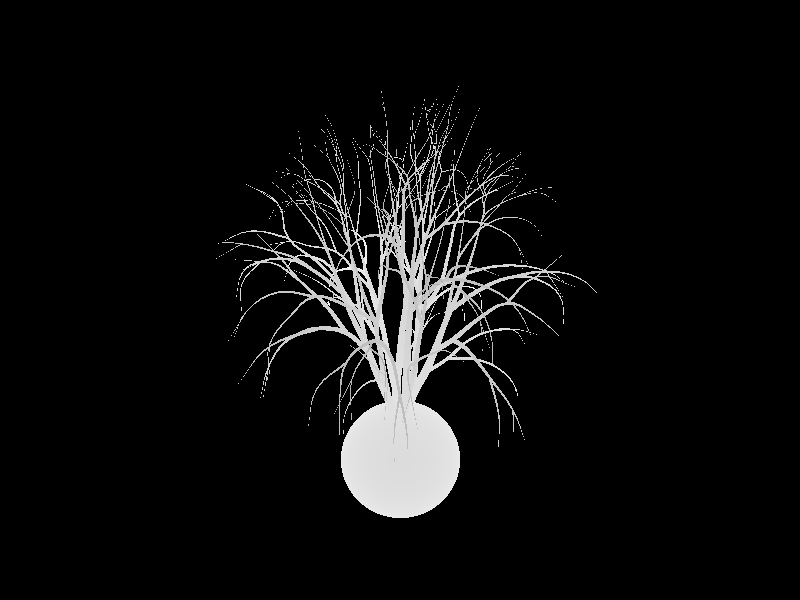
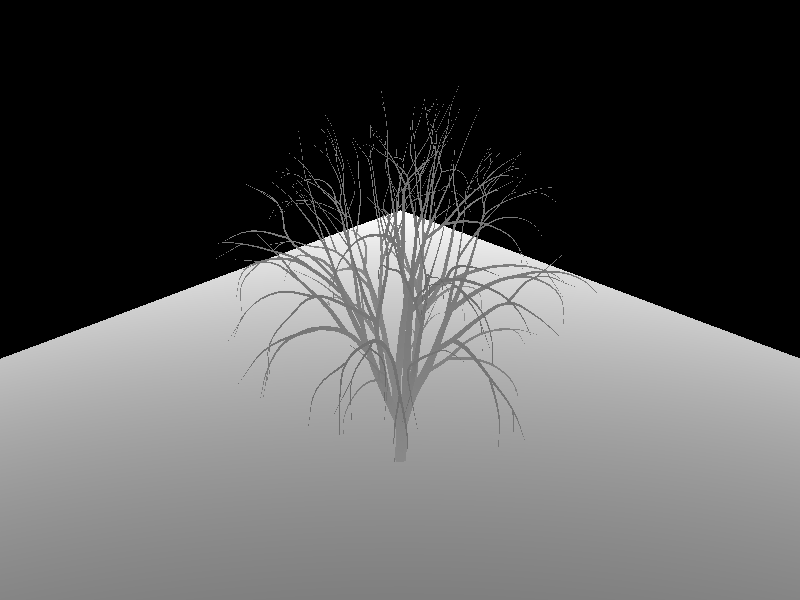
Corrected bug in instance intersection methods

diff --git a/src/instance.rs b/src/instance.rs
@@ -11,8 +11,8 @@ pub struct Instance<'a, T: RealField + Copy> {
     mesh: &'a Mesh<T>,
     /// World-to-object transformation matrix.
     world_to_object: Matrix4<T>,
-    // /// Object-to-world transformation matrix.
-    // object_to_world: Matrix4<T>,
+    /// Object-to-world transformation matrix.
+    object_to_world: Matrix4<T>,
     /// Transformed bounding box in world space.
     world_aabb: Aabb<T>,
 }
@@ -27,7 +27,7 @@ impl<'a, T: RealField + Copy + ToPrimitive> Instance<'a, T> {
         Self {
             mesh,
             world_to_object,
-            // object_to_world,
+            object_to_world,
             world_aabb,
         }
     }
@@ -52,7 +52,7 @@ impl<'a, T: RealField + Copy + ToPrimitive> Instance<'a, T> {
         let (triangle_index, mut hit) = self.mesh.intersect(&object_ray)?;
 
         // Transform hit back to world space
-        self.transform_hit_to_world_space(&mut hit);
+        self.transform_hit_to_world_space(&mut hit, ray, &object_ray);
 
         Some((triangle_index, hit))
     }
@@ -61,9 +61,12 @@ impl<'a, T: RealField + Copy + ToPrimitive> Instance<'a, T> {
     pub fn intersect_any(&self, ray: &Ray<T>, max_distance: T) -> bool {
         // Transform ray to object space
         if let Some(object_ray) = self.transform_ray_to_object_space(ray) {
-            // We need to transform the max_distance as well
-            // This is an approximation - for precise results, we'd need more complex math
-            self.mesh.intersect_any(&object_ray, max_distance)
+            // Transform max_distance from world space to object space
+            // We need to account for how the transformation affects distances along the ray
+            let world_endpoint = ray.origin + ray.direction.scale(max_distance);
+            let object_endpoint = self.world_to_object.transform_point(&world_endpoint);
+            let object_max_distance = (object_endpoint - object_ray.origin).norm();
+            self.mesh.intersect_any(&object_ray, object_max_distance)
         } else {
             false
         }
@@ -84,7 +87,7 @@ impl<'a, T: RealField + Copy + ToPrimitive> Instance<'a, T> {
     }
 
     /// Transform a hit from object space to world space.
-    fn transform_hit_to_world_space(&self, hit: &mut Hit<T>) {
+    fn transform_hit_to_world_space(&self, hit: &mut Hit<T>, world_ray: &Ray<T>, object_ray: &Ray<T>) {
         // For normal transformation, we need the inverse transpose of the upper 3x3 matrix
         // Since we're using Matrix4, we need to extract the 3x3 part and invert-transpose it
         let upper_3x3 = self.world_to_object.fixed_view::<3, 3>(0, 0);
@@ -101,7 +104,14 @@ impl<'a, T: RealField + Copy + ToPrimitive> Instance<'a, T> {
         let world_interpolated_normal_vector = normal_transform * hit.interpolated_normal.as_ref();
         hit.interpolated_normal = Unit::new_normalize(world_interpolated_normal_vector);
 
-        // Note: The distance remains the same as it's measured along the original ray
-        // If you need the actual world-space distance, you'd need to scale by the transform
+        // CRITICAL FIX: Transform the distance from object space to world space
+        // The hit distance is along the object-space ray, but we need it along the world-space ray
+        // Calculate the actual world-space intersection point
+        let object_hit_point = object_ray.origin + object_ray.direction.scale(hit.distance);
+        let world_hit_point = self.object_to_world.transform_point(&object_hit_point);
+
+        // Calculate the distance along the world ray to reach this point
+        let to_hit = world_hit_point - world_ray.origin;
+        hit.distance = to_hit.dot(&world_ray.direction);
     }
 }

diff --git a/src/scene_object.rs b/src/scene_object.rs
@@ -10,7 +10,7 @@ use crate::{
 };
 
 /// Enumeration of all `Traceable` objects that can be added to a `Scene`.
-pub enum SceneObject<T: RealField + Copy> {
+pub enum SceneObject<'a, T: RealField + Copy> {
     /// A sphere primitive.
     Sphere(Sphere<T>),
     /// A triangle primitive.
@@ -18,10 +18,10 @@ pub enum SceneObject<T: RealField + Copy> {
     /// A triangle mesh.
     Mesh(Mesh<T>),
     /// A mesh instance with transformation.
-    Instance(Instance<'static, T>),
+    Instance(Instance<'a, T>),
 }
 
-impl<T: RealField + Copy + ToPrimitive> Bounded<T> for SceneObject<T> {
+impl<'a, T: RealField + Copy + ToPrimitive> Bounded<T> for SceneObject<'a, T> {
     fn aabb(&self) -> Cow<Aabb<T>> {
         match self {
             SceneObject::Sphere(sphere) => sphere.aabb(),
@@ -32,7 +32,7 @@ impl<T: RealField + Copy + ToPrimitive> Bounded<T> for SceneObject<T> {
     }
 }
 
-impl<T: RealField + Copy + ToPrimitive> Traceable<T> for SceneObject<T> {
+impl<'a, T: RealField + Copy + ToPrimitive> Traceable<T> for SceneObject<'a, T> {
     fn intersect(&self, ray: &Ray<T>) -> Option<Hit<T>> {
         match self {
             SceneObject::Sphere(sphere) => sphere.intersect(ray),

diff --git a/examples/simple.rs b/examples/simple.rs
@@ -1,6 +1,6 @@
 use chromatic::{Colour, ColourMap, LabAlpha};
 use geodesic::prelude::*;
-use nalgebra::Point3;
+use nalgebra::{Point3, Similarity3, Translation3, UnitQuaternion};
 use ndarray::Array2;
 use ndarray_stats::QuantileExt;
 use photo::Image;
@@ -23,8 +23,13 @@ fn main() -> Result<(), Box<dyn Error>> {
 
     // Scene setup
     let mut objects = Vec::new();
-    objects.push(SceneObject::Sphere(Sphere::new(Point3::new(0.0, 0.0, 0.0), 1.0)));
     objects.push(SceneObject::Mesh(Mesh::load(&bvh_config, "./assets/meshes/tree.obj")));
+    let plane = Mesh::load(&bvh_config, "./assets/meshes/plane.obj");
+    let plane_instance = Instance::new(
+        &plane,
+        Similarity3::from_parts(Translation3::new(0.0, 0.0, -1.0), UnitQuaternion::identity(), 10.0).to_homogeneous(),
+    );
+    objects.push(SceneObject::Instance(plane_instance));
     let scene = Scene::new(&bvh_config, &objects);
 
     // Render

diff --git a/src/scene.rs b/src/scene.rs
@@ -9,14 +9,14 @@ use crate::{aabb::Aabb, bounded::Bounded, bvh::Bvh, bvh_config::BvhConfig, hit::
 /// Scene containing multiple traceable objects with BVH acceleration.
 pub struct Scene<'a, T: RealField + Copy> {
     /// Collection of traceable objects in the scene.
-    objects: &'a [SceneObject<T>],
+    objects: &'a [SceneObject<'a, T>],
     /// BVH acceleration structure for the scene.
     bvh: Bvh<T>,
 }
 
 impl<'a, T: RealField + Copy + ToPrimitive> Scene<'a, T> {
     /// Construct a new `Scene` instance.
-    pub fn new(config: &BvhConfig<T>, objects: &'a [SceneObject<T>]) -> Self {
+    pub fn new(config: &BvhConfig<T>, objects: &'a [SceneObject<'a, T>]) -> Self {
         assert!(!objects.is_empty(), "Scene must contain at least one object");
         let bvh = Bvh::new(config, &objects);
         Self { objects, bvh }

diff --git a/src/hit.rs b/src/hit.rs
@@ -1,5 +1,6 @@
 use nalgebra::{RealField, Unit, Vector3};
 
+#[derive(Clone)]
 pub struct Hit<T: RealField + Copy> {
     /// The distance to intersection.
     pub distance: T,
